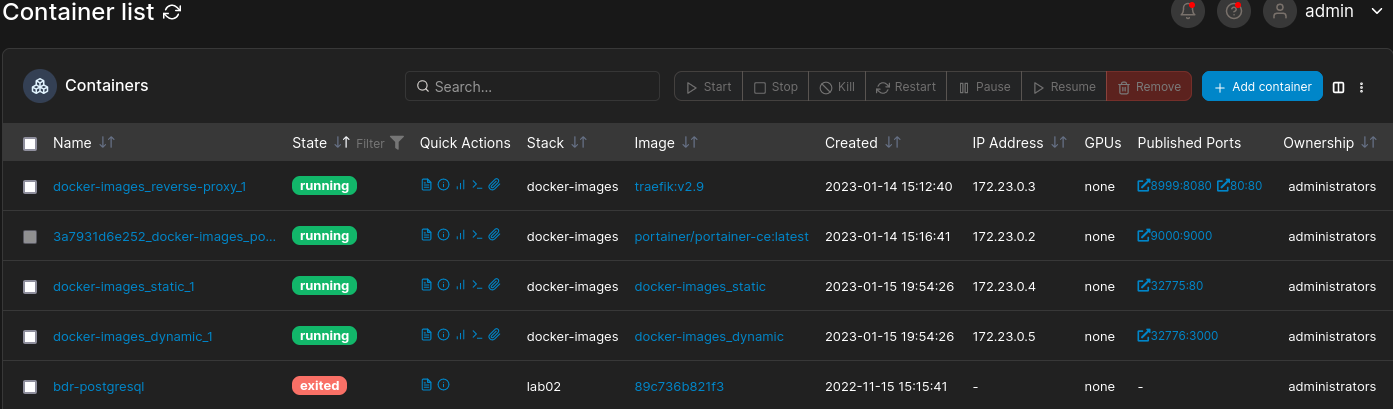
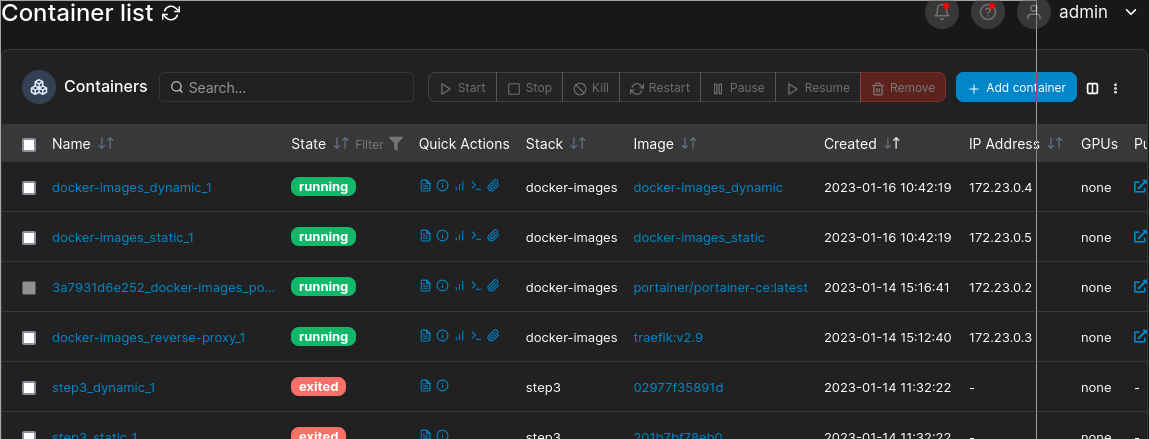
Portainer after login

diff --git a/docker-images/README.md b/docker-images/README.md
@@ -24,7 +24,7 @@ Now, Portainer' service is accessible through a browser, by reaching [localhost:
 
 First, it asks for a login:
 
-![pic-portainer-login](pics/)
+![pic-portainer-login](pics/portainer-1stLogin.png)
 
 Define your credentials.
 
@@ -34,11 +34,11 @@ So feel free to delete the [.gitignore](.gitignore) if you're copying the projec
 
 After login phase passed, it is possible to see which services are actually running.
 
-On the dashboard, reach the local section that is displaying on the screen:
+Go to Home \> Dashboard, reach the local section that is displaying on the screen:
 
-![pic-portainer-dashboard](pics/)
+![pic-portainer-dashboard](pics/portainer-dashboard.png)
 
-You'll reach a page listing various container that the service detected on your machine.
+You'll reach a page listing infos, so reach the `Containers` to see various containers that the service detected on your machine.
 
 Let's order them by creation date:
 
